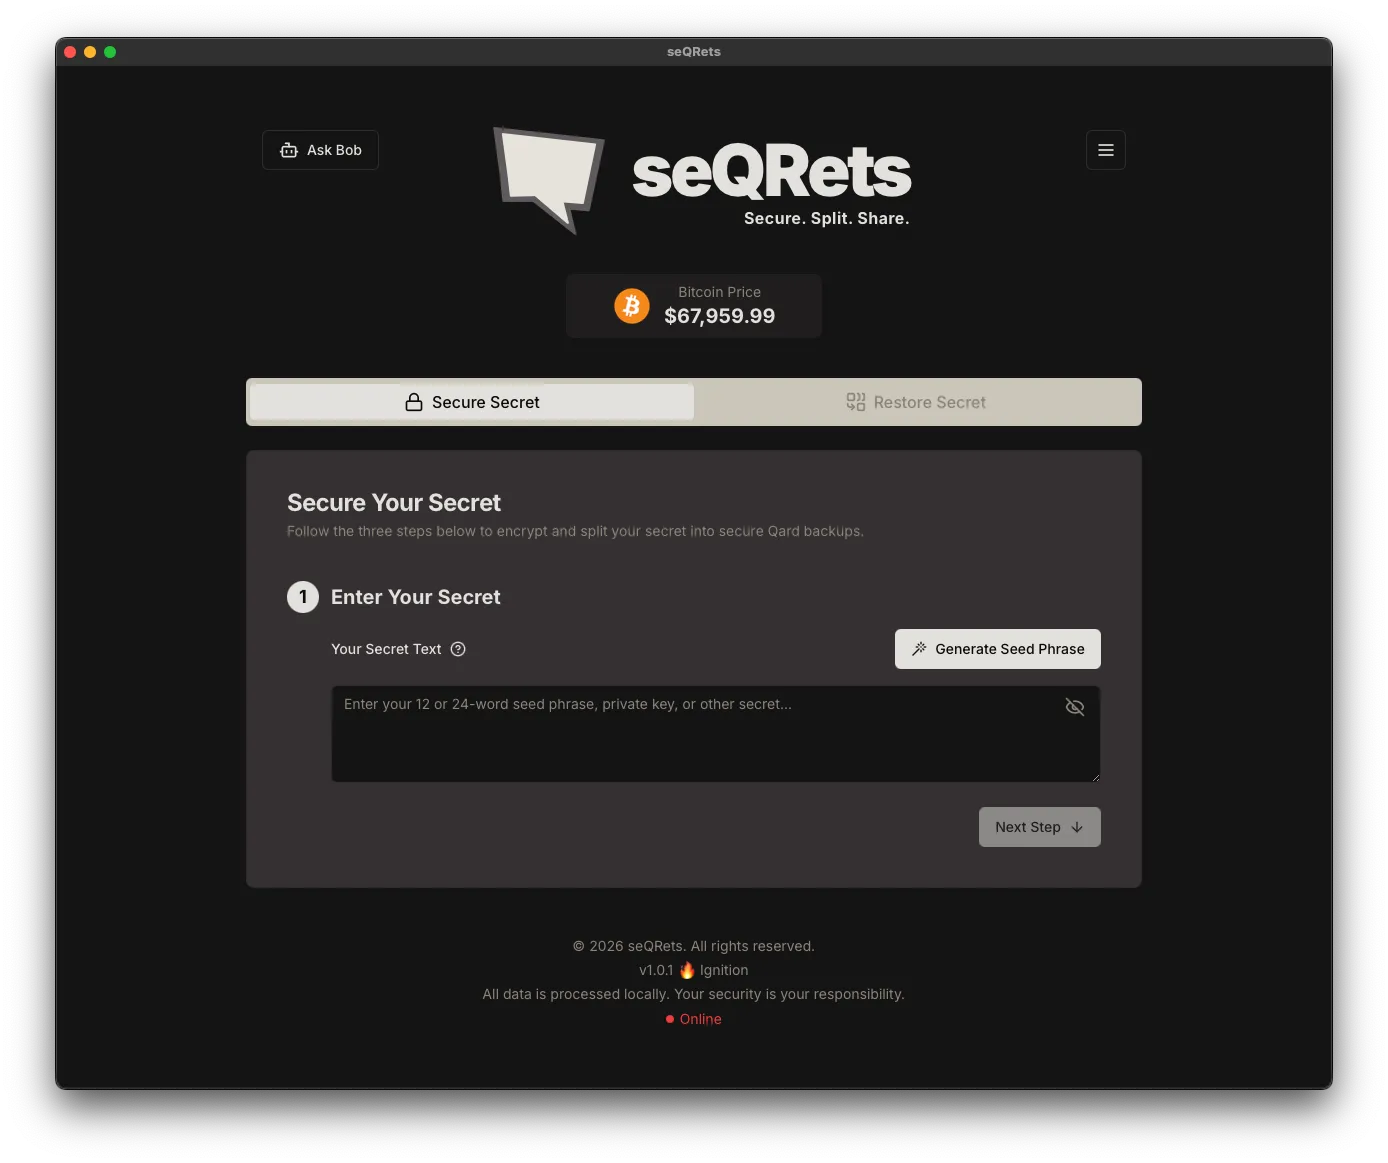
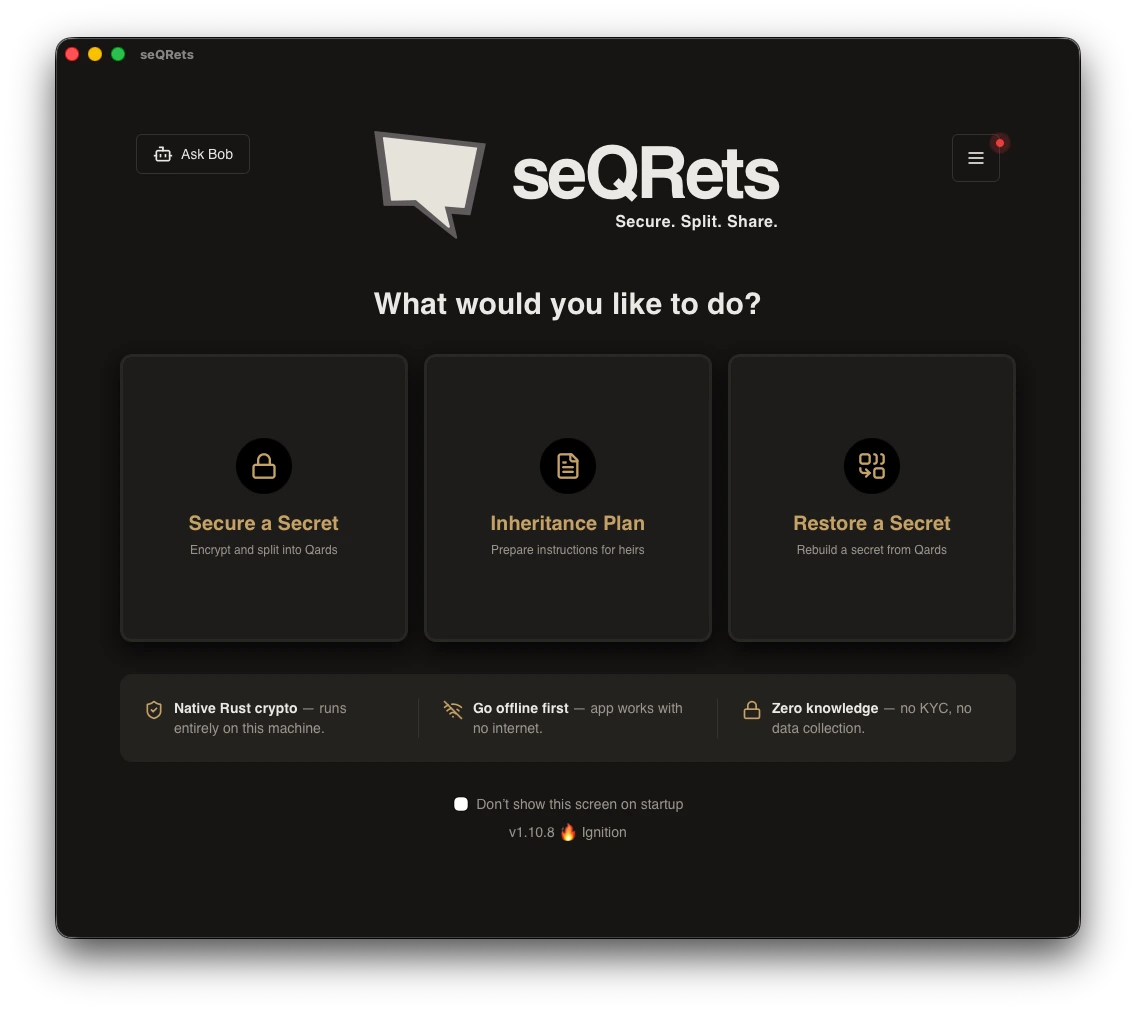
polish(landing): refresh hero headline, Pro Desktop screenshots, and Coming Soon badge
HeroSection: change H1 from "Protect What Matters Most" to "Secure What
Matters." The generic "protect what matters most" phrasing is widely
used across the security/insurance marketing commons, including by an
adjacent project. The new headline drops "Most", echoes the brand verb
already on the page ("Secure. Split. Share."), and reinforces "Secure"
twice in the same eye-sweep.

Pro Desktop section: replace app-dark.webp and app-light.webp with
updated screenshots reflecting the current home screen — 3-card layout
("Secure a Secret / Inheritance Plan / Restore a Secret"), updated
feature row, and the "Don't show this on startup" checkbox.

Coming Soon badge: switch from primary (amber) to red-500. The amber
variant blended into the warm landing palette and didn't read as a
status indicator. Red reads as "not shipping yet" at a glance.

diff --git a/src/components/landing/DesktopCTA.tsx b/src/components/landing/DesktopCTA.tsx
@@ -57,12 +57,12 @@ const DesktopCTA = () => {
 
           <div className="text-center">
             {/* Coming soon badge */}
-            <div className="mx-auto mb-10 inline-flex items-center gap-2 rounded-full border border-primary/20 bg-primary/5 px-5 py-2">
+            <div className="mx-auto mb-10 inline-flex items-center gap-2 rounded-full border border-red-500/40 bg-red-500/10 px-5 py-2">
               <span className="relative flex h-2 w-2">
-                <span className="absolute inline-flex h-full w-full animate-ping rounded-full bg-primary opacity-75" />
-                <span className="relative inline-flex h-2 w-2 rounded-full bg-primary" />
+                <span className="absolute inline-flex h-full w-full animate-ping rounded-full bg-red-500 opacity-75" />
+                <span className="relative inline-flex h-2 w-2 rounded-full bg-red-500" />
               </span>
-              <span className="font-display text-xs font-bold uppercase tracking-wider text-primary">Coming Soon</span>
+              <span className="font-display text-xs font-bold uppercase tracking-wider text-red-500">Coming Soon</span>
             </div>
 
             <p className="text-base text-muted-foreground/80 mb-12 max-w-2xl mx-auto">

diff --git a/src/components/landing/HeroSection.tsx b/src/components/landing/HeroSection.tsx
@@ -46,8 +46,8 @@ const HeroSection = () => {
         <img src={heroLogo} alt="seQRets logo" className="mb-4 h-[112px] w-auto md:h-[151px]" />
 
         <h1 className="font-display text-5xl font-black leading-[1.05] tracking-tight md:text-5xl lg:text-6xl lg:whitespace-nowrap">
-          <span className="text-foreground">Protect What </span>
-          <span className="text-gradient">Matters Most</span>
+          <span className="text-foreground">Secure What </span>
+          <span className="text-gradient">Matters.</span>
         </h1>
 
         {/* Animated keyword cycling */}